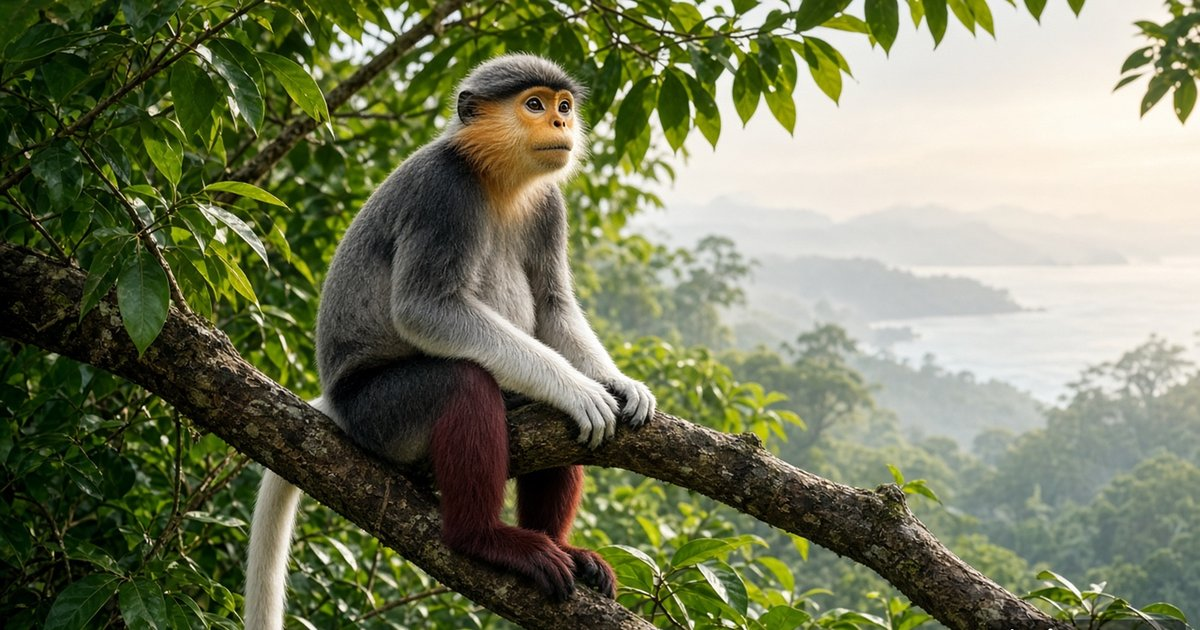
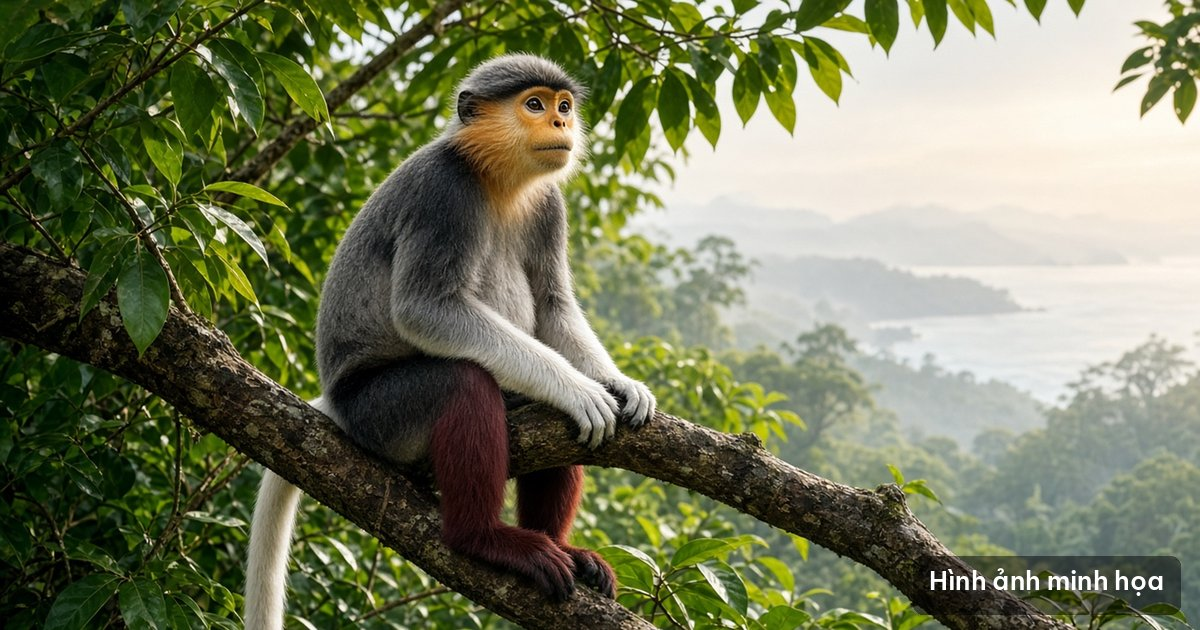
fix: watermark OG + câu nguồn theo Luna review

Changed region(s): [[0.74, 0.8746, 1.0, 1.0]]

diff --git a/src/data/project.ts b/src/data/project.ts
@@ -321,7 +321,7 @@ export const NEWS: NewsArticle[] = [
         text: "Ngày 02/11/2026, Cổng Thông tin điện tử thành phố Đà Nẵng đưa tin Chủ tịch UBND thành phố đã ban hành Quyết định số 5023/QĐ-UBND, phê duyệt tiếp nhận dự án “Bảo tồn loài Chà vá chân nâu và loài Chà vá chân xám tại thành phố Đà Nẵng và tỉnh Quảng Ngãi”. Dự án do tổ chức Synchronicity Earth (Vương quốc Anh) tài trợ, kinh phí viện trợ hơn 6,5 tỷ đồng, thời gian thực hiện từ tháng 10/2026 đến tháng 9/2029. Phường Sơn Trà là một trong 7 phường của Đà Nẵng có tên trong địa bàn triển khai (Nguồn: Cổng TTĐT TP Đà Nẵng, 02/11/2026).",
       },
       {
-        text: "Bài tóm tắt thông tin từ Cổng TTĐT thành phố và báo chí. Bài không phải văn bản chính thức của cơ quan nhà nước, không phải thông cáo của dự án và không phải thông cáo của The Camellia Sơn Trà. Chi tiết hoạt động cụ thể sẽ do đơn vị thực hiện công bố sau.",
+        text: "Bài tóm tắt thông tin từ Cổng TTĐT thành phố và báo chí. Bài không phải văn bản chính thức của cơ quan nhà nước, không phải thông cáo của dự án và không phải thông cáo của The Camellia Sơn Trà. Các nguồn chưa nêu lịch hay hình thức hoạt động cụ thể tại từng phường.",
       },
       {
         heading: "Dự án gồm những gì",
